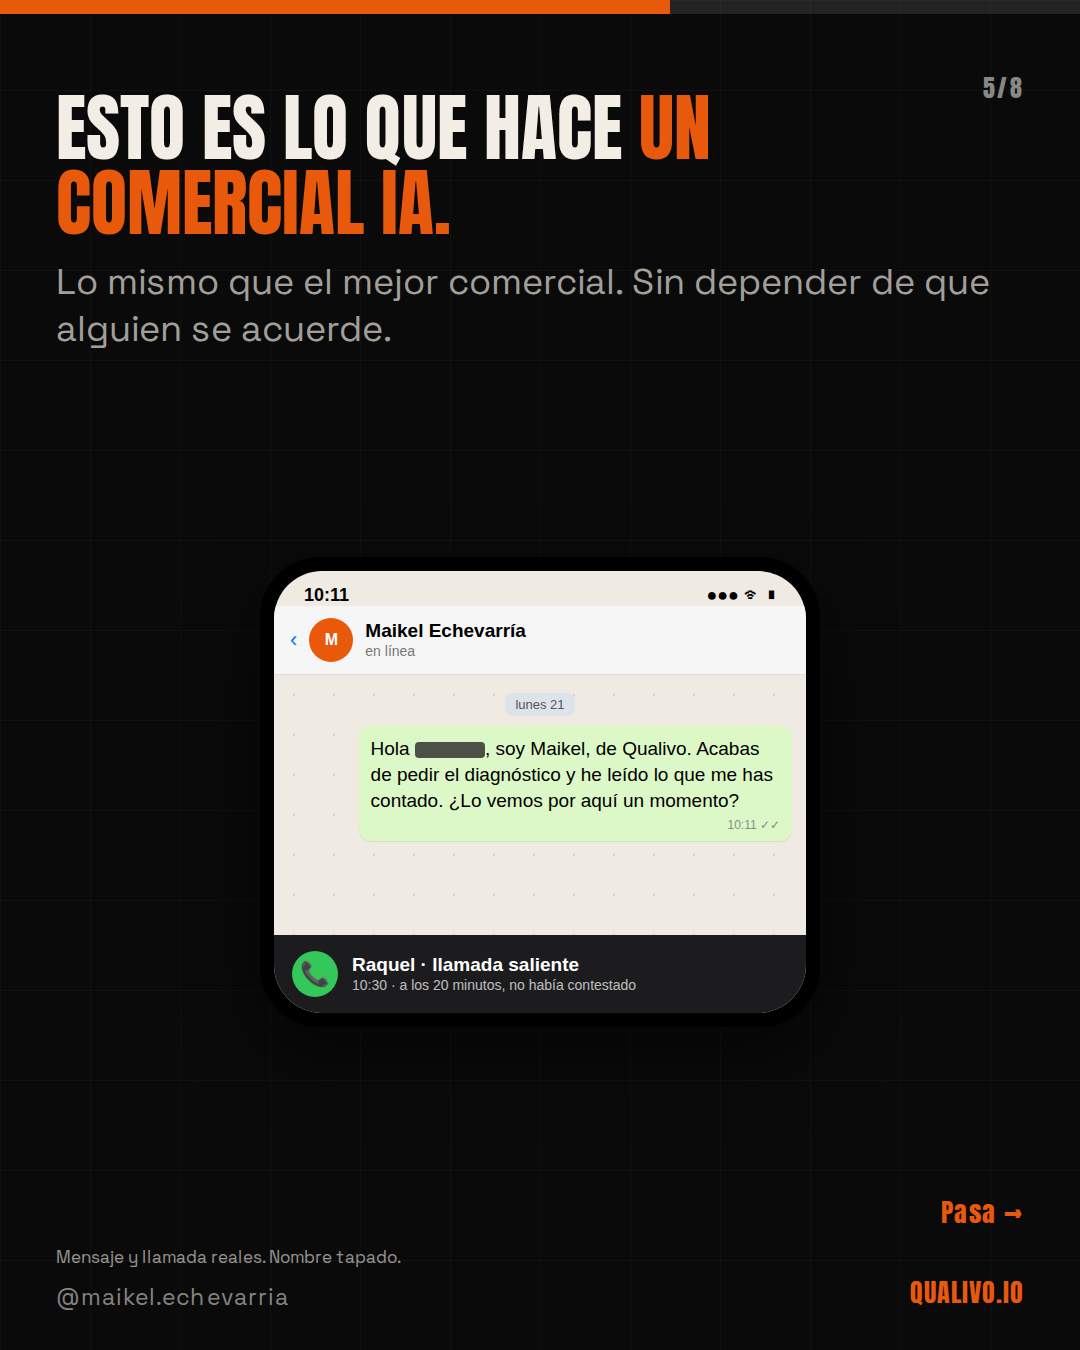
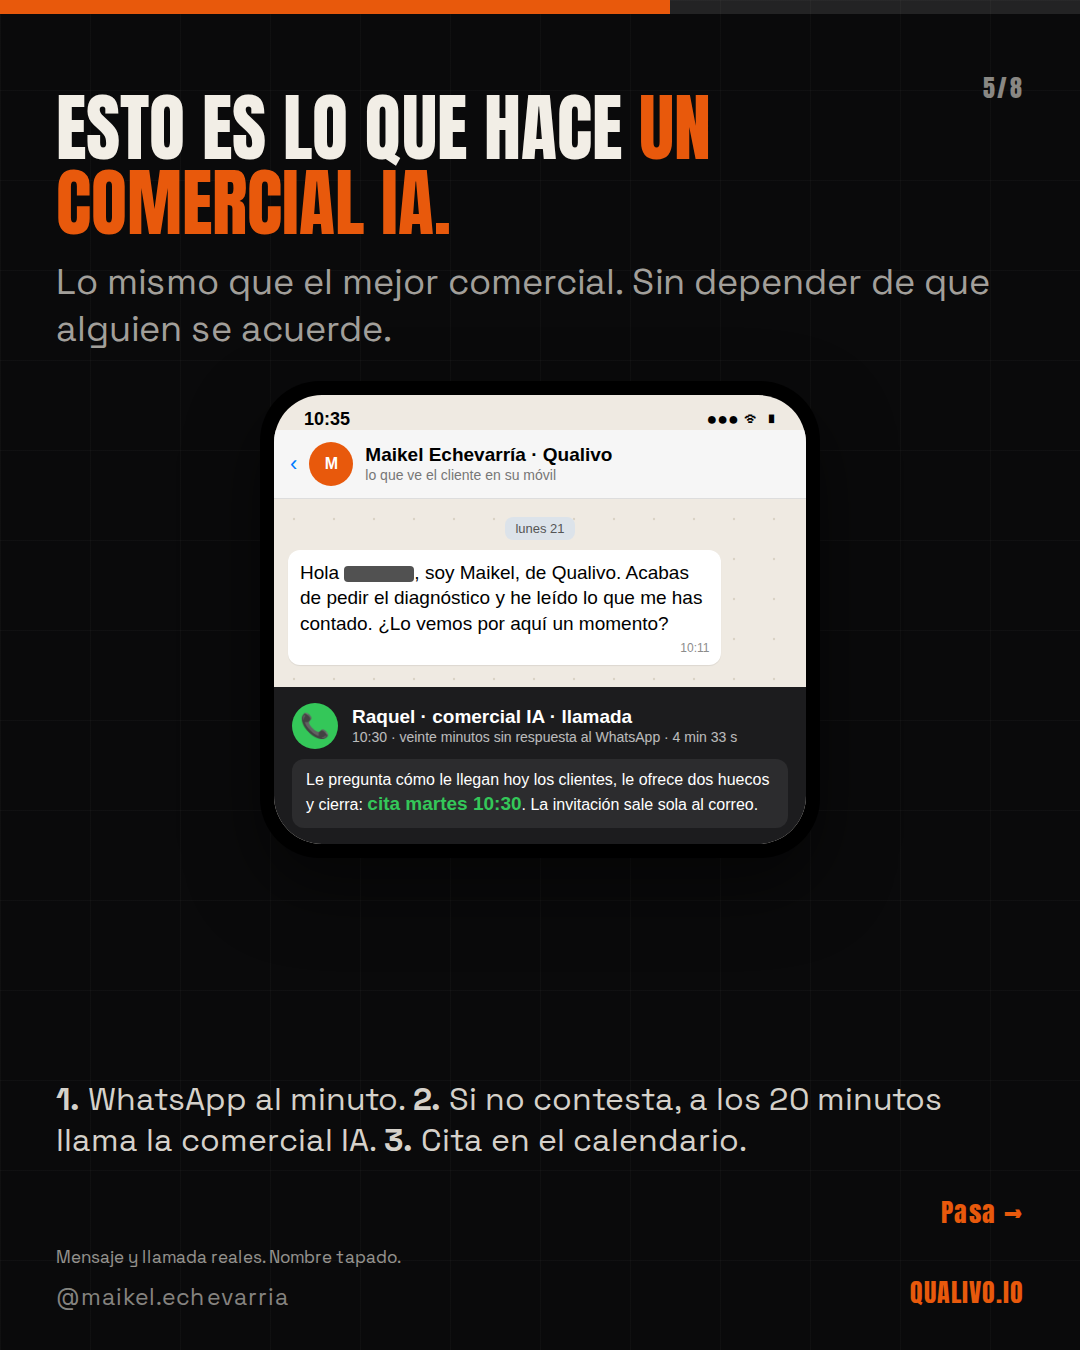
Lámina 5: el WhatsApp como lo ve el cliente y la llamada de la comercial IA explicada con su resultado
Claude-Session: https://claude.ai/code/session_015zPzMSu62cfqSPYhENKK62

Changed region(s): [[0.2444, 0.28, 0.7639, 0.7467], [0.0611, 0.8089, 0.8861, 0.8711]]

diff --git a/content/carruseles/2026-09-22-contacto-7x/lamina-5.html b/content/carruseles/2026-09-22-contacto-7x/lamina-5.html
@@ -59,7 +59,12 @@ body{padding:0;background:#000}
 </style></head><body><div class="page tinta"><div class="prog"><i style="width:62%"></i></div><div class="n">5/8</div><div class="in">
   <div class="h">Esto es lo que hace <span class="nar">un comercial IA.</span></div>
   <div class="t" style="opacity:.75">Lo mismo que el mejor comercial. Sin depender de que alguien se acuerde.</div>
-  <div class="vis"><div class="phone"><div class="scr"><div class="sb"><span>10:11</span><span>●●● ᯤ ▮</span></div>
-<div class="wah"><span class="back">‹</span><div class="av">M</div><div><b>Maikel Echevarría</b><small>en línea</small></div></div>
-<div class="wall"><div class="day">lunes 21</div><div class="bub mio">Hola <span class="tapa"></span>, soy Maikel, de Qualivo. Acabas de pedir el diagnóstico y he leído lo que me has contado. ¿Lo vemos por aquí un momento?<span class="hh">10:11 ✓✓</span></div></div><div class="callbar"><div class="ic">📞</div><div><b>Raquel · llamada saliente</b><small>10:30 · a los 20 minutos, no había contestado</small></div></div></div></div></div>
+  <div class="vis" style="margin-top:28px"><div class="phone"><div class="scr"><div class="sb"><span>10:35</span><span>●●● ᯤ ▮</span></div>
+<div class="wah"><span class="back">‹</span><div class="av">M</div><div><b>Maikel Echevarría · Qualivo</b><small>lo que ve el cliente en su móvil</small></div></div>
+<div class="wall" style="min-height:0"><div class="day">lunes 21</div><div class="bub suyo">Hola <span class="tapa"></span>, soy Maikel, de Qualivo. Acabas de pedir el diagnóstico y he leído lo que me has contado. ¿Lo vemos por aquí un momento?<span class="hh">10:11</span></div></div>
+<div class="callbar" style="flex-direction:column;align-items:stretch;gap:10px">
+<div style="display:flex;align-items:center;gap:14px"><div class="ic">📞</div><div><b>Raquel · comercial IA · llamada</b><small>10:30 · veinte minutos sin respuesta al WhatsApp · 4 min 33 s</small></div></div>
+<div style="background:#2C2C2E;border-radius:12px;padding:10px 14px;font-size:16px;line-height:1.4">Le pregunta cómo le llegan hoy los clientes, le ofrece dos huecos y cierra: <b style="display:inline;color:#34C759">cita martes 10:30</b>. La invitación sale sola al correo.</div>
+</div></div></div></div>
+  <div class="t" style="margin-top:0;margin-bottom:70px;font-size:32px"><b>1.</b> WhatsApp al minuto. <b>2.</b> Si no contesta, a los 20 minutos llama la comercial IA. <b>3.</b> Cita en el calendario.</div>
   <div class="src">Mensaje y llamada reales. Nombre tapado.</div></div><div class="next">Pasa →</div><div class="firma">@maikel.echevarria</div><div class="web">QUALIVO.IO</div></div></body></html>
